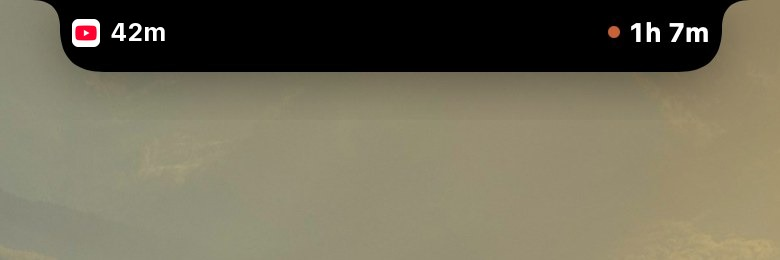
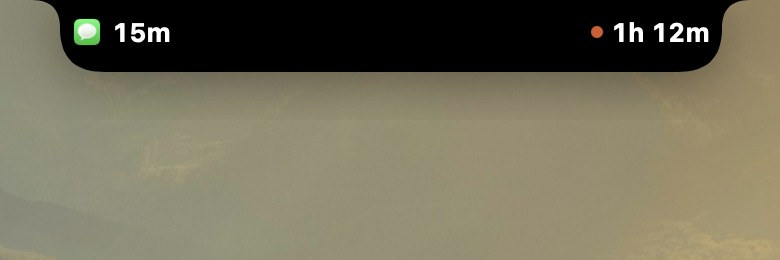
Timeline in focus and distraction, notch picker, Also included shots

Changed region(s): [[0.7385, 0.0615, 0.9231, 0.1846], [0.0923, 0.0615, 0.2154, 0.1846]]

diff --git a/index.html b/index.html
@@ -138,16 +138,12 @@ h2 { font-size: clamp(32px, 4.4vw, 50px); line-height: 1.08; letter-spacing: -.0
 .prose { color: var(--muted); font-size: 18px; max-width: 560px; }
 .prose p { margin: 0 0 14px; }
 .prose b { color: var(--text); font-weight: 600; }
-.split { display: grid; grid-template-columns: 1fr 1.25fr; gap: 64px; align-items: center; }
-.split.rev { grid-template-columns: 1.25fr 1fr; }
-.split.rev > :first-child { order: 2; }
 .head { max-width: 720px; }
 .head .prose { max-width: 680px; }
 .wide { margin-top: 40px; }
 .card { background: var(--surface); border: 1px solid var(--border); border-radius: var(--radius); padding: 22px; }
 
 /* 01 nudges */
-.stack { display: flex; flex-direction: column; gap: 14px; }
 
 /* 02 glance */
 .glances { display: grid; grid-template-columns: repeat(2, 1fr); gap: 24px; margin-top: 48px; }
@@ -201,7 +197,9 @@ table.cmp { width: 100%; border-collapse: collapse; font-size: 15px; }
 .feat h4 .ic { width: 30px; height: 30px; border-radius: 9px; display: grid; place-items: center; background: var(--surface-3); flex: none; }
 .feat h4 .ic svg { width: 16px; height: 16px; color: var(--text); }
 .feat p { margin: 0; color: var(--muted); font-size: 14.5px; }
-.icon-row { display: flex; gap: 6px; margin-top: 14px; }
+.icon-row { display: flex; flex-wrap: wrap; gap: 6px; margin-top: 14px; }
+.fshot { aspect-ratio: 2 / 1; margin: -8px -8px 18px; border-radius: 10px; background: #000; overflow: hidden; display: grid; place-items: center; }
+.fshot img { max-width: 100%; max-height: 100%; object-fit: contain; }
 .icon-row img { width: 24px; height: 24px; border-radius: 6px; }
 
 /* pricing */
@@ -264,8 +262,6 @@ footer a { text-decoration: none; } footer a:hover { color: var(--text); }
 
 @media (max-width: 960px) {
   .nav-links { display: none; }
-  .split, .split.rev { grid-template-columns: 1fr; gap: 36px; }
-  .split.rev > :first-child { order: 0; }
   .grid, .locks, .bento.b3 { grid-template-columns: 1fr 1fr; }
   .warn { grid-template-columns: 1fr; gap: 24px; }
 }
@@ -341,11 +337,11 @@ footer a { text-decoration: none; } footer a:hover { color: var(--text); }
 
     <div class="demo rv" id="demo">
       <div class="shot stage" id="stage" aria-live="polite">
-        <img class="on" data-frame="day" src="assets/shots/day.jpg" width="1623" height="1000" alt="The NotchUsage panel grown out of the notch, showing a day: 6h 3m of screen time, a timeline strip colored focus and distraction, and the top apps and sites.">
-        <img data-frame="week" src="assets/shots/week.jpg" width="1623" height="1000" alt="The week view: 4h 55m a day, seven day lanes colored by focus and distraction, and parts of the day.">
+        <img class="on" data-frame="day" src="assets/shots/day.jpg" width="1623" height="1000" alt="The NotchUsage panel grown out of the notch, showing a day: 6h 9m of screen time, a timeline strip colored focus and distraction, and the top apps and sites.">
+        <img data-frame="week" src="assets/shots/week.jpg" width="1623" height="1000" alt="The week view: 5h 22m a day, seven day lanes colored by focus and distraction, and parts of the day.">
         <img data-frame="month" src="assets/shots/month.jpg" width="1623" height="1000" alt="The month view: a grid with a square per day since tracking began.">
-        <img data-frame="insights" src="assets/shots/insights.jpg" width="1623" height="1000" alt="The Insights page: focus and distraction a day, a Day Score of 72, and five patterns.">
-        <img data-frame="goals" src="assets/shots/goals.jpg" width="1623" height="1000" alt="The Goals page: 2h 15m today against a 7h screen time goal, a week of stacked bars, and goal tiles.">
+        <img data-frame="insights" src="assets/shots/insights.jpg" width="1623" height="1000" alt="The Insights page: focus and distraction a day, a Day Score of 74, and five patterns.">
+        <img data-frame="goals" src="assets/shots/goals.jpg" width="1623" height="1000" alt="The Goals page: 1h 27m today against a 7h screen time goal, a week of stacked bars, and goal tiles.">
         <img data-frame="addgoal" src="assets/shots/addgoal.jpg" width="1623" height="1000" alt="Adding a goal: apps and sites in three buckets, Focus, Neutral and Distraction, then locks and limits.">
         <img data-frame="editgoal" src="assets/shots/editgoal.jpg" width="1623" height="1000" alt="A YouTube goal of 1 hour a day, warning at 45 minutes and blocking at 1 hour, beside the last 7 days.">
         <svg class="cursor gone" id="cursor" viewBox="0 0 22 22" aria-hidden="true"><path d="M3 2l15 9.2-6.7 1.3 3.9 6.9-2.6 1.4-3.9-6.9L3 18.6z" fill="#fff" stroke="#000" stroke-width="1.2" stroke-linejoin="round"/></svg>
@@ -376,75 +372,59 @@ footer a { text-decoration: none; } footer a:hover { color: var(--text); }
         </div>
       </div>
       <div class="glances">
-        <figure class="rv"><div class="shot sm"><img src="assets/shots/glance-focus.jpg" width="780" height="260" alt="Glance with a focus session running: 24:59 left, and a ring at 2h 15m toward today's screen time goal." loading="lazy"></div><figcaption><h4>Focus timer</h4><p>Start a focus from the notch and watch it count down, beside a ring that fills toward today's screen time goal.</p></figcaption></figure>
-        <figure class="rv"><div class="shot sm"><img src="assets/shots/glance-current.jpg" width="780" height="260" alt="Glance: YouTube at 42m today on the left, 1h 7m of distraction on the right." loading="lazy"></div><figcaption><h4>Current app today</h4><p>The app or site you're on right now, and how long it's had you today.</p></figcaption></figure>
+        <figure class="rv"><div class="shot sm"><img src="assets/shots/glance-focus.jpg" width="780" height="260" alt="Glance with a focus session running: 24:58 left, and a ring at 1h 27m toward today's screen time goal." loading="lazy"></div><figcaption><h4>Focus timer</h4><p>Start a focus from the notch and watch it count down, beside a ring that fills toward today's screen time goal.</p></figcaption></figure>
+        <figure class="rv"><div class="shot sm"><img src="assets/shots/glance-current.jpg" width="780" height="260" alt="Glance: Messages at 15m today on the left, 1h 12m of distraction on the right." loading="lazy"></div><figcaption><h4>Current app today</h4><p>The app or site you're on right now, and how long it's had you today.</p></figcaption></figure>
+      </div>
+      <div class="warn" id="nudge">
+        <div class="rv">
+          <h3>A nudge while it's still happening</h3>
+          <div class="prose"><p>At every full hour on a site, a small panel grows out of the notch and folds back in after 7 seconds. It counts only what you actually watch, so a paused video or a background tab never adds up.</p></div>
+        </div>
+        <div class="shot sm rv"><img src="assets/shots/nudge-youtube.jpg" width="763" height="181" alt="A nudge under the notch: 1 hour of YouTube today." loading="lazy"></div>
       </div>
     </div>
   </section>
 
-  <!-- ============ 02 NUDGE ============ -->
-  <section id="nudge">
-    <div class="wrap split">
-      <div class="rv">
+  <!-- ============ 02 TIMELINE ============ -->
+  <section id="timeline">
+    <div class="wrap">
+      <div class="head rv">
         <div class="kicker">02</div>
-        <h2>A nudge from the notch, while it's still happening</h2>
+        <h2>Timeline: see where the day went</h2>
         <div class="prose">
-          <p>At every full hour on a site, a small panel grows out of the notch and folds back in after 7 seconds. It counts only what you actually watch, so a paused video or a background tab never adds up.</p>
+          <p>Every minute is <b>focus</b>, <b>neutral</b> or <b>distraction</b>. See the day as one strip, the week a lane per day, and the month a square for every day since you started.</p>
         </div>
       </div>
-      <div class="stack rv">
-        <div class="shot sm"><img src="assets/shots/nudge-youtube.jpg" width="763" height="181" alt="A nudge under the notch: 1 hour of YouTube today." loading="lazy"></div>
-        <div class="shot sm"><img src="assets/shots/nudge-netflix.jpg" width="763" height="181" alt="A nudge under the notch: 2 hours of Netflix today." loading="lazy"></div>
-      </div>
-    </div>
-  </section>
-
-  <!-- ============ 03 MORE WAYS ============ -->
-  <section id="more-ways">
-    <div class="wrap">
-      <div class="center rv">
-        <div class="kicker">03</div>
-        <h2>Shape it around your day</h2>
-        <div class="prose" style="max-width:600px"><p>Sort your apps, lock what pulls you away, and make the notch and the colors your own.</p></div>
-      </div>
-      <div class="bento b2">
-        <figure class="bcard rv"><div class="bimg"><img src="assets/shots/card-categories.jpg" width="1000" height="616" alt="The day colored by category: Work 2h 36m, Entertainment 1h 7m, Create 47m, Talk 37m, Social 32m, Learn 24m." loading="lazy"></div><figcaption><svg class="bic"><use href="#i-tag"/></svg><h4>Time by kind</h4><p>Color the day by Work, Create, Learn, Talk, Entertainment and Social to see what kind of day it was.</p></figcaption></figure>
-        <figure class="bcard rv"><div class="bimg"><img src="assets/shots/card-buckets.jpg" width="1000" height="616" alt="Apps and sites in three buckets, Focus, Neutral and Distraction, with locks and limits below." loading="lazy"></div><figcaption><svg class="bic"><use href="#i-hand"/></svg><h4>Sort apps into buckets</h4><p>Focus, Neutral and Distraction side by side. Drag an app across to change its side, or click it to set a limit.</p></figcaption></figure>
-      </div>
       <div class="bento b3">
-        <figure class="bcard rv"><div class="bimg"><img src="assets/shots/card-focus-lock.jpg" width="1000" height="616" alt="A notch message: YouTube is paused until your Focus session ends." loading="lazy"></div><figcaption><svg class="bic"><use href="#i-timer"/></svg><h4>Focus lock</h4><p>Distractions stay paused while a focus runs, and open again the moment a break starts.</p></figcaption></figure>
-        <figure class="bcard rv"><div class="bimg"><img src="assets/shots/card-morning-lock.jpg" width="1000" height="616" alt="A notch message: YouTube is paused until 9:42 AM, the start of your day." loading="lazy"></div><figcaption><svg class="bic"><use href="#i-moon"/></svg><h4>Morning lock</h4><p>Keep the first hour of your day clear of distractions, from whenever your day begins.</p></figcaption></figure>
-        <figure class="bcard rv"><div class="bimg"><img src="assets/shots/card-colors.jpg" width="1000" height="616" alt="The Colors settings page: a preview strip, the Vivid, Calm, Ocean, Berry and Custom themes, and the date formats." loading="lazy"></div><figcaption><svg class="bic"><use href="#i-palette"/></svg><h4>Your colors</h4><p>Pick Vivid, Calm, Ocean or Berry, or set your own. Every chart re-colors at once.</p></figcaption></figure>
-      </div>
-      <div class="bento b2">
-        <figure class="bcard rv"><div class="bimg"><img src="assets/shots/card-notch.jpg" width="1000" height="616" alt="Notch customization settings: a live preview of the notch bar, its display style, and how the glance opens." loading="lazy"></div><figcaption><svg class="bic"><use href="#i-display"/></svg><h4>Make the notch yours</h4><p>Choose what each side of the notch shows and how the glance opens, with a live preview.</p></figcaption></figure>
-        <figure class="bcard rv"><div class="bimg"><img src="assets/shots/card-week.jpg" width="1000" height="616" alt="The week colored by category, with a lane per day and mornings, afternoons and evenings below." loading="lazy"></div><figcaption><svg class="bic"><use href="#i-cal"/></svg><h4>Your week, hour by hour</h4><p>A lane per day and the parts of the day, so a habit is hard to miss.</p></figcaption></figure>
+        <figure class="bcard rv"><div class="bimg"><img src="assets/shots/card-day.jpg" width="1000" height="616" alt="A day: 6h 9m, its timeline strip in focus green and distraction orange, with white dots where nudges came, and the top apps and sites." loading="lazy"></div><figcaption><svg class="bic"><use href="#i-display"/></svg><h4>Your day as one strip</h4><p>Focus in green, distraction in orange, and a white dot wherever a nudge came.</p></figcaption></figure>
+        <figure class="bcard rv"><div class="bimg"><img src="assets/shots/card-week.jpg" width="1000" height="616" alt="The week: a lane per day in focus and distraction, then morning, afternoon, evening and night with their top apps." loading="lazy"></div><figcaption><svg class="bic"><use href="#i-cal"/></svg><h4>Your week, hour by hour</h4><p>A lane per day, and what mornings, afternoons, evenings and nights went to.</p></figcaption></figure>
+        <figure class="bcard rv"><div class="bimg"><img src="assets/shots/card-month.jpg" width="1000" height="616" alt="The month: a square for every day since tracking began, colored from focus to distraction." loading="lazy"></div><figcaption><svg class="bic"><use href="#i-tag"/></svg><h4>Every day since you started</h4><p>A square per day, so good weeks and bad ones stand out.</p></figcaption></figure>
       </div>
     </div>
   </section>
 
-  <!-- ============ 04 INSIGHTS ============ -->
+  <!-- ============ 03 INSIGHTS ============ -->
   <section id="insights">
     <div class="wrap">
       <div class="head rv">
-        <div class="kicker">04</div>
-        <h2>Insights that tell you something</h2>
+        <div class="kicker">03</div>
+        <h2>Insights: what your days have in common</h2>
         <div class="prose">
           <p>Focus and distraction for the last 7, 30 or 90 days, with patterns shown only when your data backs them. Plus one <b>Day Score</b> for yesterday, judged against your own usual day.</p>
         </div>
       </div>
       <div class="wide rv">
-        <div class="shot"><img src="assets/shots/insights.jpg" width="1623" height="1000" alt="The Insights page: 3h 34m focus and 1h 26m distraction a day, a Day Score of 72, and five patterns." loading="lazy"></div>
+        <div class="shot"><img src="assets/shots/insights.jpg" width="1623" height="1000" alt="The Insights page: 3h 1m focus and 2h 8m distraction a day, a Day Score of 74, and five patterns." loading="lazy"></div>
       </div>
     </div>
   </section>
 
-  <!-- ============ 05 GOALS ============ -->
+  <!-- ============ 04 GOALS ============ -->
   <section id="goals">
     <div class="wrap">
       <div class="head rv">
-        <div class="kicker">05</div>
-        <h2>Goals that can say no for you</h2>
+        <div class="kicker">04</div>
+        <h2>Goals: limits that can say no for you</h2>
         <div class="prose">
           <p>Any limit can warn you from the notch, then block once it's reached. The app hides and the tab goes blank, but nothing is quit and no work is lost.</p>
         </div>
@@ -458,6 +438,26 @@ footer a { text-decoration: none; } footer a:hover { color: var(--text); }
           <div class="prose"><p>The notch tells you how close you are, and how long until it blocks.</p></div>
         </div>
         <div class="shot sm rv"><img src="assets/shots/goal-warning.jpg" width="1003" height="300" alt="A goal warning under the notch: Distraction today, 1h 41m, 19 minutes until it blocks." loading="lazy"></div>
+      </div>
+      <div class="bento b2">
+        <figure class="bcard rv"><div class="bimg"><img src="assets/shots/card-focus-lock.jpg" width="1000" height="616" alt="A notch message: YouTube is paused until your Focus session ends." loading="lazy"></div><figcaption><svg class="bic"><use href="#i-timer"/></svg><h4>Focus lock</h4><p>Distractions stay paused while a focus runs, and open again the moment a break starts.</p></figcaption></figure>
+        <figure class="bcard rv"><div class="bimg"><img src="assets/shots/card-morning-lock.jpg" width="1000" height="616" alt="A notch message: YouTube is paused until 9:42 AM, the start of your day." loading="lazy"></div><figcaption><svg class="bic"><use href="#i-moon"/></svg><h4>Morning lock</h4><p>Keep the first hour of your day clear of distractions, from whenever your day begins.</p></figcaption></figure>
+      </div>
+    </div>
+  </section>
+
+  <!-- ============ 05 SETTINGS ============ -->
+  <section id="settings">
+    <div class="wrap">
+      <div class="head rv">
+        <div class="kicker">05</div>
+        <h2>Settings: make it yours</h2>
+        <div class="prose"><p>Sort your apps, choose what the notch shows, and pick the colors every chart uses.</p></div>
+      </div>
+      <div class="bento b3">
+        <figure class="bcard rv"><div class="bimg"><img src="assets/shots/card-buckets.jpg" width="1000" height="616" alt="Apps and sites in three buckets, Focus, Neutral and Distraction, with locks and limits below." loading="lazy"></div><figcaption><svg class="bic"><use href="#i-hand"/></svg><h4>Sort apps into buckets</h4><p>Focus, Neutral and Distraction side by side. Drag an app across to change its side, or click it to set a limit.</p></figcaption></figure>
+        <figure class="bcard rv"><div class="bimg"><img src="assets/shots/card-notch.jpg" width="1000" height="616" alt="Notch customization: the notch bar as it looks now, then a tile for every choice on the right side: Screen Time, goal ring, current app, focus, distraction, Day Score, pickups and more." loading="lazy"></div><figcaption><svg class="bic"><use href="#i-display"/></svg><h4>Make the notch yours</h4><p>Every choice for each side of the notch, drawn as it would look, beside a live preview.</p></figcaption></figure>
+        <figure class="bcard rv"><div class="bimg"><img src="assets/shots/card-colors.jpg" width="1000" height="616" alt="The Colors settings page: a preview strip, the Vivid, Calm, Ocean, Berry and Custom themes, and the date formats." loading="lazy"></div><figcaption><svg class="bic"><use href="#i-palette"/></svg><h4>Your colors</h4><p>Pick Vivid, Calm, Ocean or Berry, or set your own. Every chart re-colors at once.</p></figcaption></figure>
       </div>
     </div>
   </section>
@@ -511,16 +511,16 @@ footer a { text-decoration: none; } footer a:hover { color: var(--text); }
         <h2>Also included</h2>
       </div>
       <div class="grid">
-        <div class="card feat rv"><h4><span class="ic"><svg><use href="#i-timer"/></svg></span>Focus timer</h4><p>25 minutes on, 5 off, a longer break every fourth round, all adjustable. The notch says what's next.</p></div>
-        <div class="card feat rv"><h4><span class="ic"><svg><use href="#i-hand"/></svg></span>Pickups</h4><p>Each unlock of your Mac counts, shown under the day's total, or as a daily average for a week or month.</p></div>
+        <div class="card feat rv"><div class="fshot"><img src="assets/shots/mini-focus.jpg" alt="Focus timer settings: 25 minutes of focus, 5 minute breaks, a 15 minute break every 4 focuses." loading="lazy"></div><h4><span class="ic"><svg><use href="#i-timer"/></svg></span>Focus timer</h4><p>25 minutes on, 5 off, a longer break every fourth round, all adjustable. The notch says what's next.</p></div>
+        <div class="card feat rv"><div class="fshot"><img src="assets/shots/mini-pickups.jpg" alt="The Pickups tile for the notch: 3 pickups today." loading="lazy"></div><h4><span class="ic"><svg><use href="#i-hand"/></svg></span>Pickups</h4><p>Each unlock of your Mac counts, shown under the day's total, or as a daily average for a week or month.</p></div>
+        <div class="card feat rv"><div class="fshot"><img src="assets/shots/mini-quiet.jpg" alt="Notification settings: nudges for distraction, YouTube, Twitch and X, the weekly recap, and quiet hours from 10 PM to 7 AM." loading="lazy"></div><h4><span class="ic"><svg><use href="#i-moon"/></svg></span>Quiet hours</h4><p>Pick the hours nudges rest, and turn them off site by site.</p></div>
+        <div class="card feat rv"><div class="fshot"><img src="assets/shots/mini-parts.jpg" alt="Morning, afternoon, evening and night for a week, each with its top apps and sites." loading="lazy"></div><h4><span class="ic"><svg><use href="#i-cal"/></svg></span>Parts of the day</h4><p>Week and month split into morning, afternoon, evening and night, each with its top apps and sites.</p></div>
         <div class="card feat rv">
           <h4><span class="ic"><svg><use href="#i-tag"/></svg></span>Every site, by name</h4><p>Every site is tracked and shown by its brand name and real icon. Private windows count as time only.</p>
           <div class="icon-row"><img src="assets/YouTubeIcon.png" alt="YouTube"><img src="assets/NetflixIcon.png" alt="Netflix"><img src="assets/InstagramIcon.png" alt="Instagram"><img src="assets/RedditIcon.png" alt="Reddit"><img src="assets/GmailIcon.png" alt="Gmail"><img src="assets/GoogleDocsIcon.png" alt="Google Docs"><img src="assets/NotionIcon.png" alt="Notion"><img src="assets/FigmaIcon.png" alt="Figma"></div>
         </div>
-                <div class="card feat rv"><h4><span class="ic"><svg><use href="#i-eye"/></svg></span>Hidden from screen shares</h4><p>Nudges and the glance never show up in screen sharing, calls or recordings.</p></div>
+        <div class="card feat rv"><h4><span class="ic"><svg><use href="#i-eye"/></svg></span>Hidden from screen shares</h4><p>Nudges and the glance never show up in screen sharing, calls or recordings.</p></div>
         <div class="card feat rv"><h4><span class="ic"><svg><use href="#i-display"/></svg></span>No notch? No problem</h4><p>On an external display or an older Mac, panels drop from the top center of the screen you're using.</p></div>
-        <div class="card feat rv"><h4><span class="ic"><svg><use href="#i-moon"/></svg></span>Quiet hours</h4><p>Pick the hours nudges rest, and turn them off site by site.</p></div>
-        <div class="card feat rv"><h4><span class="ic"><svg><use href="#i-cal"/></svg></span>Parts of the day</h4><p>Week and month split into morning, afternoon, evening and night, each with its top apps and sites.</p></div>
         <div class="card feat rv"><h4><span class="ic"><svg><use href="#i-lock"/></svg></span>Stays on your Mac</h4><p>Everything is stored on your Mac. Nothing is uploaded, and there's no account to make.</p></div>
       </div>
     </div>
